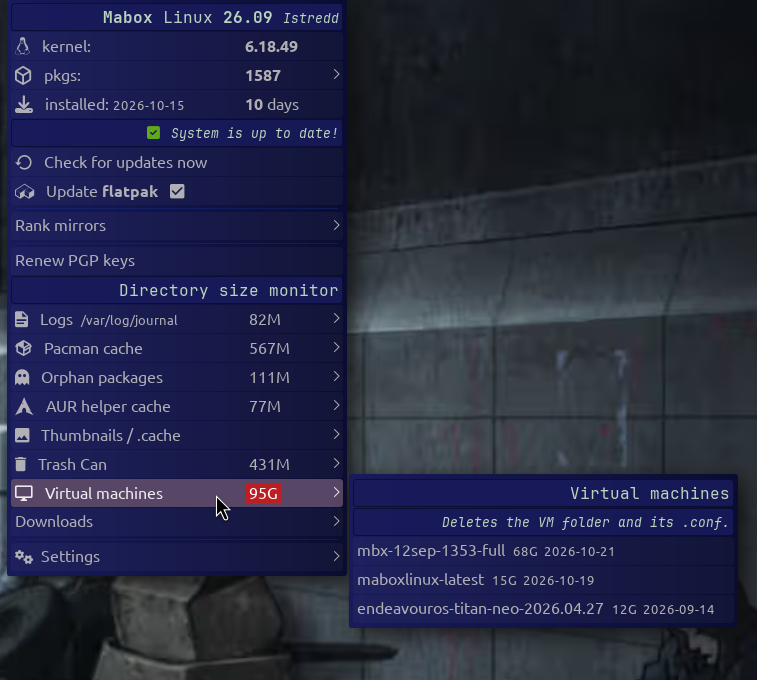
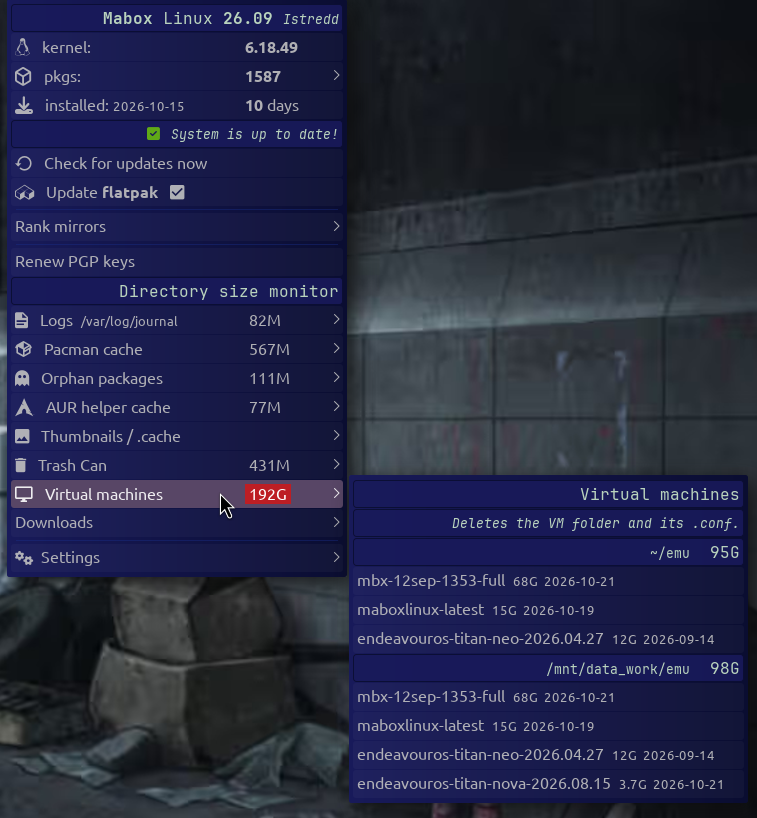
docs: update virtual machines screenshot

diff --git a/README.md b/README.md
@@ -40,7 +40,7 @@ Orphan packages, *Back up configs then remove*:
 
 ![mb-status-ce orphans backup](docs/orphans-backup.png)
 
-Virtual machines: quickemu VMs from `qemu_dir` (default `~/emu`), size and last change per VM:
+Virtual machines: quickemu VMs from the `qemu_dir` folders (default `~/emu`), grouped by folder, with size and last change per VM:
 
 ![mb-status-ce virtual machines](docs/vm-menu.png)
 
